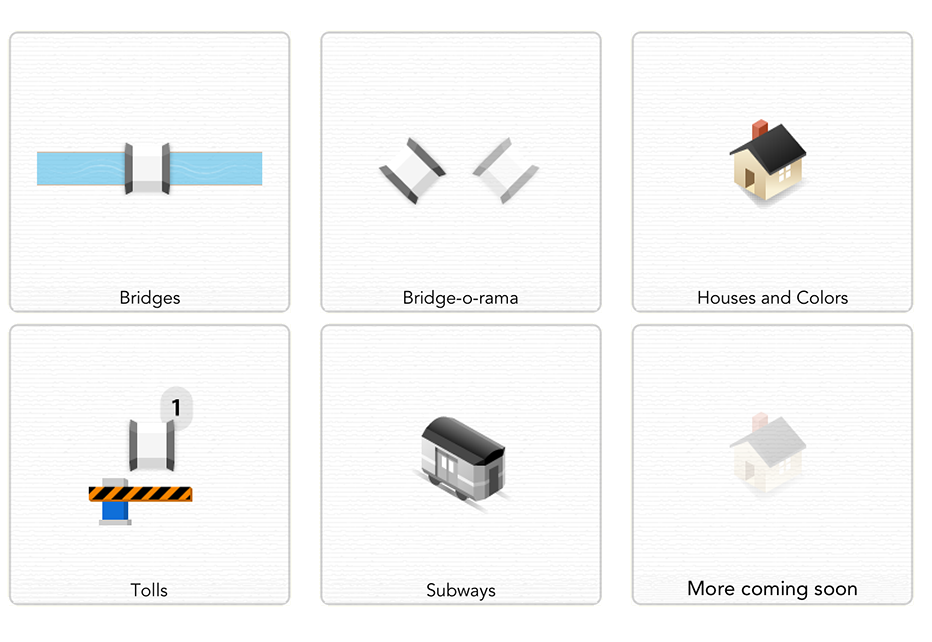
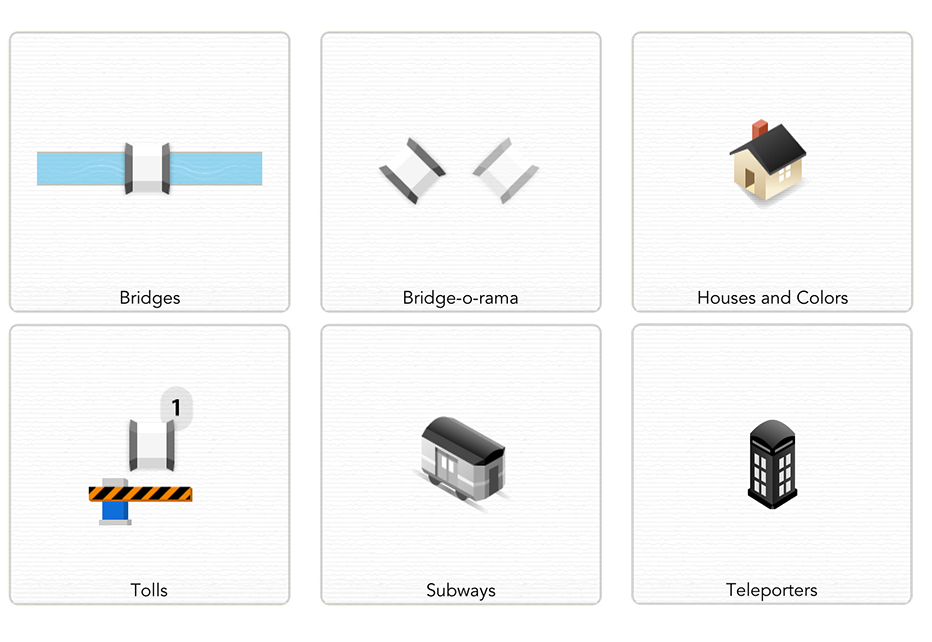
Updated the level numbers and the levels image for the teleporters.

Changed region(s): [[0.7779, 0.6231, 0.8712, 0.81], [0.7157, 0.9034, 0.9335, 0.9346]]

diff --git a/index.html b/index.html
@@ -112,7 +112,7 @@
 			</p>
             
             <p id="mapSetTitle" class="paraText">
-				Seven Bridges gives you five cities with 80 towns in all
+				Six cities with 96 towns in all
 			</p>
             
 			<p style="margin-top: -20px" class="imageBlock" id="levelsImage">
